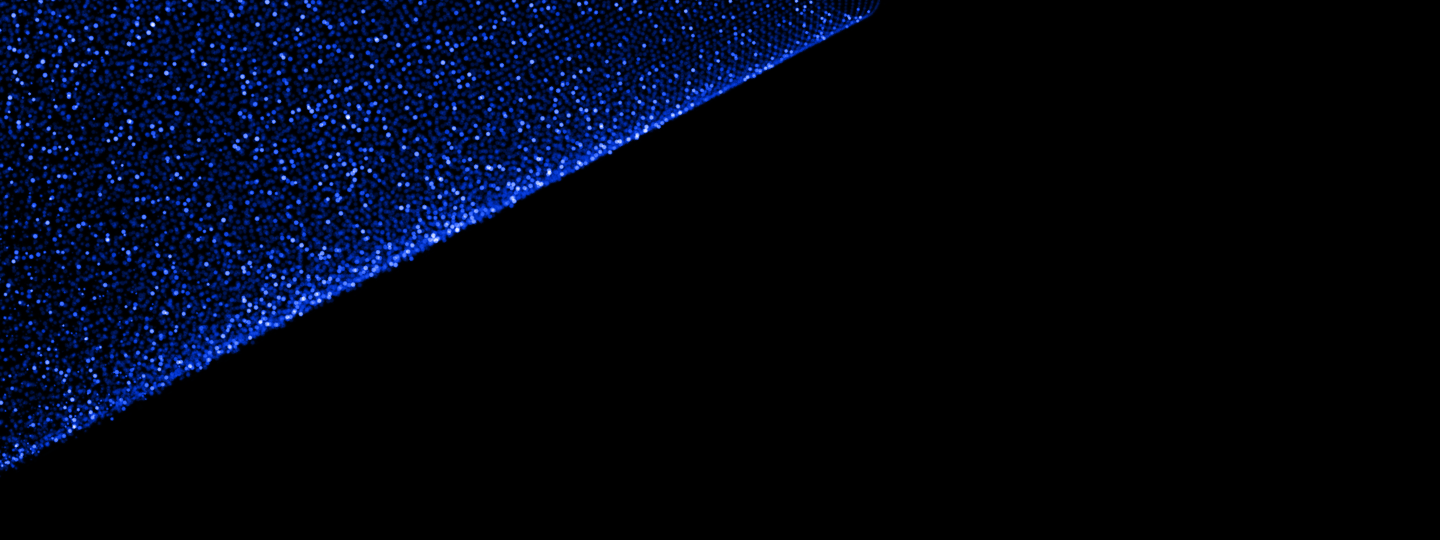
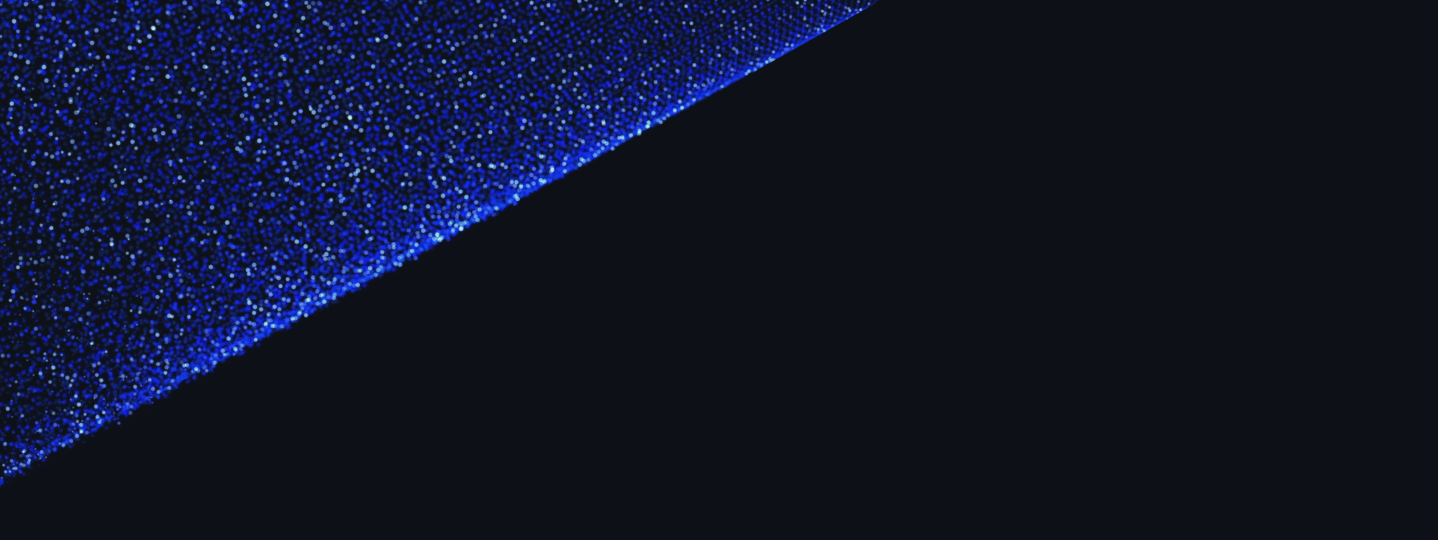
styles: use correct variables

Changed region(s): [[0.0, 0.0, 0.612, 0.9185]]

diff --git a/client/src/scss/themes.scss b/client/src/scss/themes.scss
@@ -59,6 +59,8 @@
     --statistics-select-border: #{$gray-1};
     --calendar-bg: #{$white};
     --calendar-hover: #{$gray-1};
+    --iota2-primary-text-color: #1d1d1d;
+    --iota2-secondary-text-color: #{$iota2-gray-600};
 
     body.darkmode {
         --body-background: #091326;
@@ -112,6 +114,8 @@
         --statistics-select-border: #{$gray-8};
         --calendar-bg: #{$gray-9};
         --calendar-hover: #{$gray-7};
+        --iota2-primary-text-color: #{$white};
+        --iota2-secondary-text-color: rgb(255 255 255 / 80%);
     }
 
     body.shimmer {
@@ -124,18 +128,12 @@
         --header-bg: #f2f6f9;
         --navbar-bg: rgb(255 255 255 / 20%);
         --amount-color: #{$mint-green-7};
-        --text-color: #1d1d1d;
-        --text-secondary-color: #{$iota2-gray-600};
-        --hero-background-color: #{$white};
     }
 
     body.shimmer.darkmode {
         --body-background: #00121f;
         --header-bg: #00121f;
         --navbar-bg: #00121f;
-        --text-color: #{$white};
-        --text-secondary-color: rgb(255 255 255 / 80%);
-        --hero-background-color: #000000;
     }
 
     body.iota2 {
@@ -151,7 +149,7 @@
     }
 
     body.iota2.darkmode {
-        --body-background: #000000;
+        --body-background: #0d1117;
         --header-bg: #000000;
         --navbar-bg: #000000;
         --link-color: #{$iota2-blue-600};

diff --git a/client/src/app/components/Hero.scss b/client/src/app/components/Hero.scss
@@ -9,7 +9,6 @@
     z-index: 0;
 
     .bg-container {
-        background-color: var(--hero-background-color);
         position: absolute;
         top: 0;
         left: 0;
@@ -48,7 +47,7 @@
             font-size: 72px;
             font-weight: 500;
             line-height: 120%;
-            color: var(--text-color);
+            color: var(--iota2-primary-text-color);
             text-transform: capitalize;
             margin-bottom: auto;
             font-family: $inter;
@@ -56,7 +55,7 @@
 
         .overline,
         .subtitle {
-            color: var(--text-secondary-color);
+            color: var(--iota2-secondary-text-color);
             font-family: $inter;
         }
         .overline {

diff --git a/client/src/app/components/StatDisplay.scss b/client/src/app/components/StatDisplay.scss
@@ -3,7 +3,7 @@
 .stat {
     .stat-title {
         font-family: $inter;
-        color: var(--text-color);
+        color: var(--iota2-primary-text-color);
         margin-bottom: 12px;
         font-weight: 500;
 
@@ -19,7 +19,7 @@
 
     .stat-subtitle {
         font-size: 16px;
-        color: var(--text-secondary-color);
+        color: var(--iota2-secondary-text-color);
         font-family: $inter;
     }
 }
